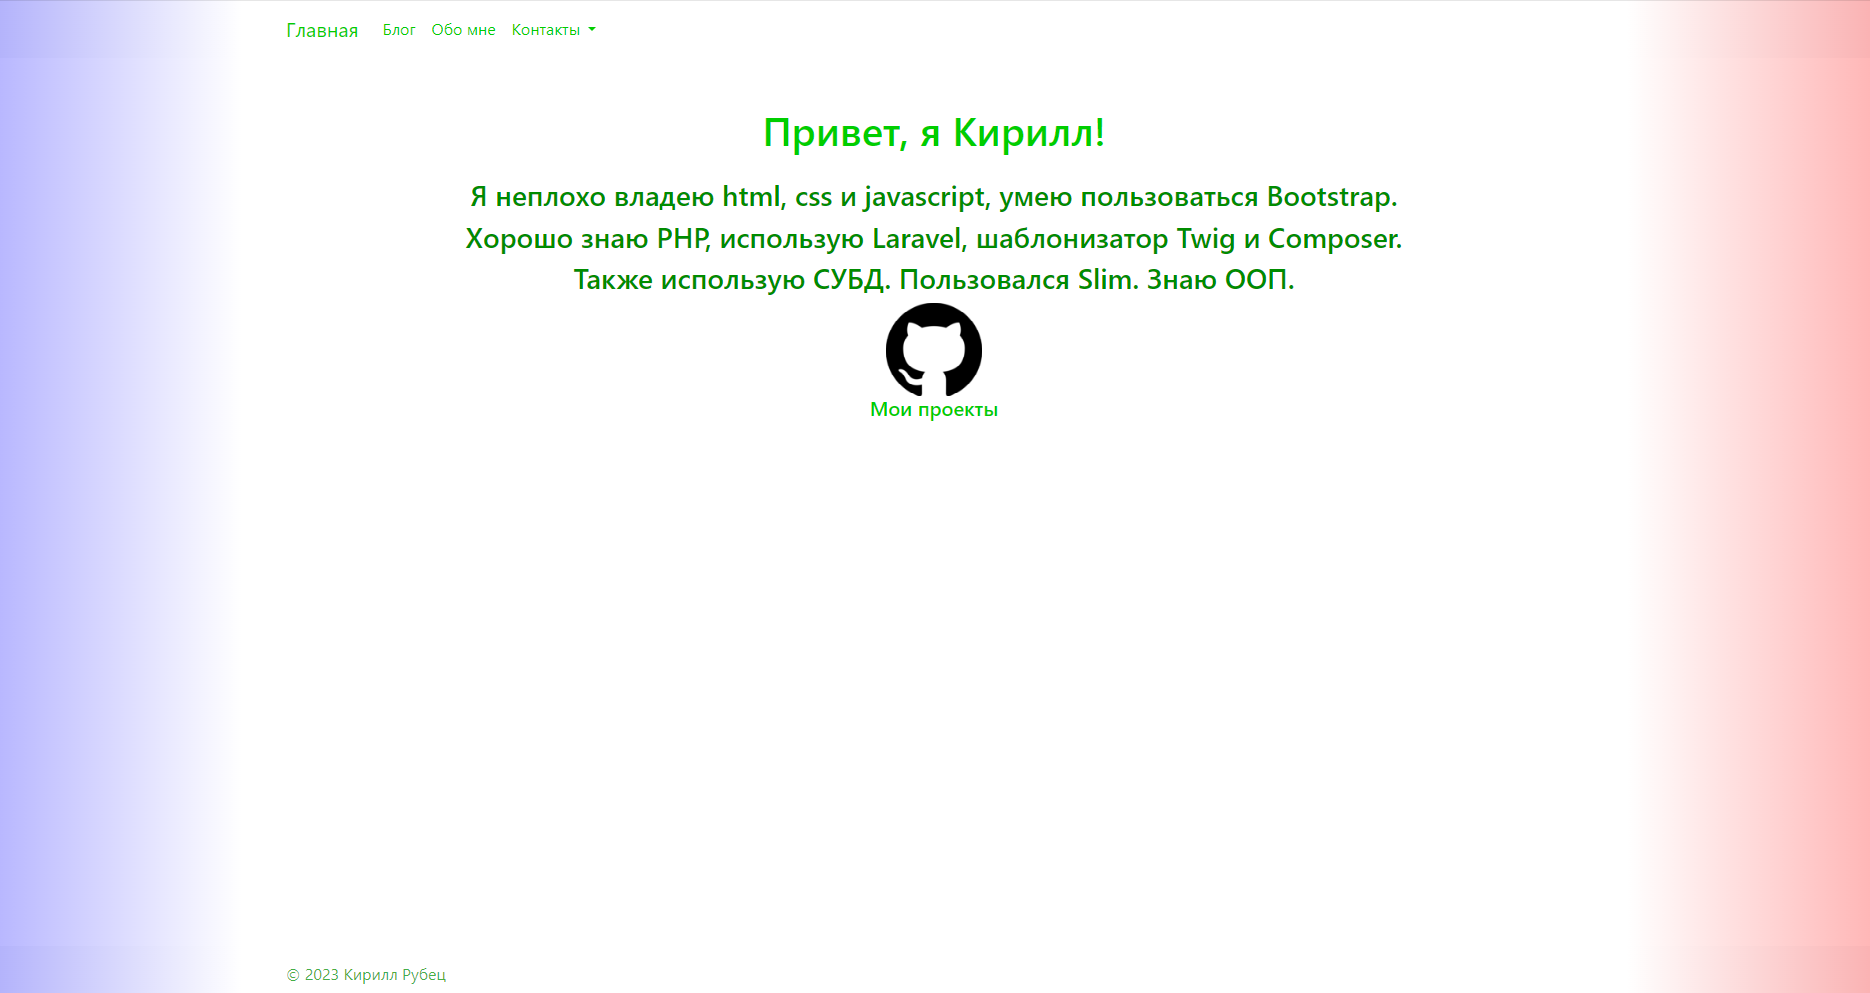
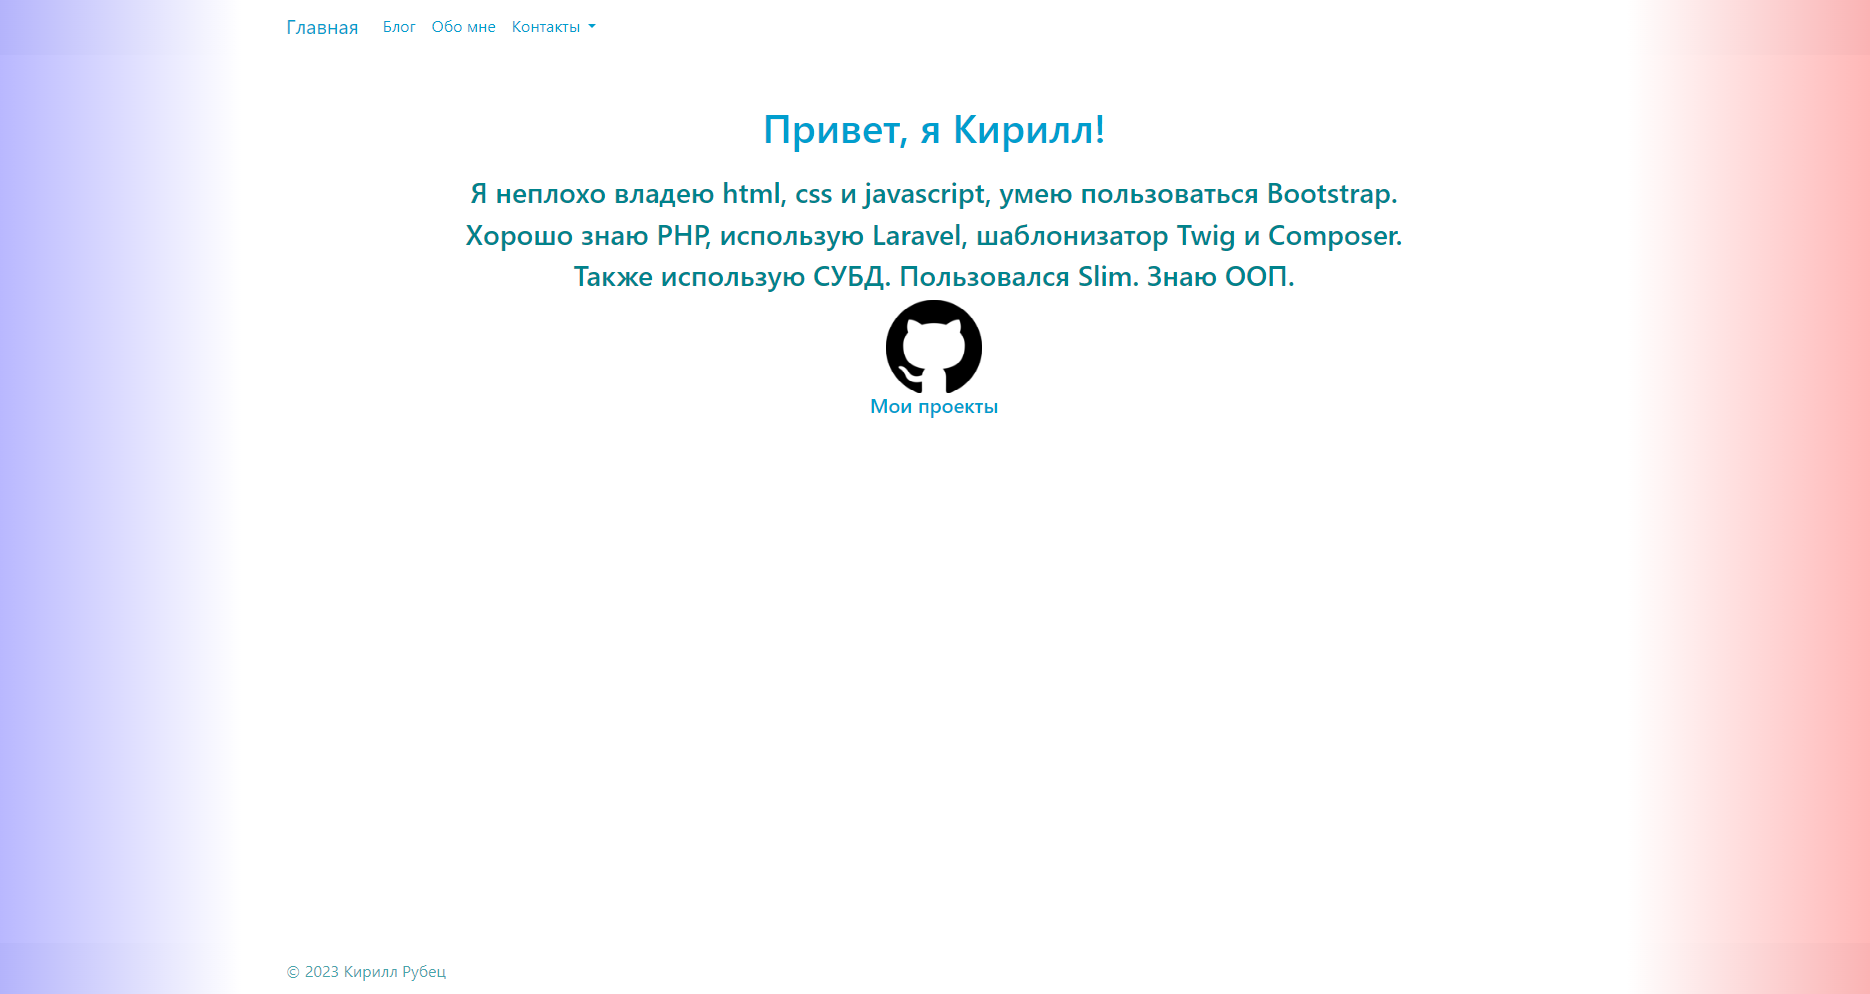
changed color scheme

diff --git a/public/styles/main.css b/public/styles/main.css
@@ -7,28 +7,28 @@ footer {
 .card,
 .pagination .page-item .page-link,
 .dropdown-menu {
-    border-color: rgba(0, 146, 0, 0.521);
+    border-color: rgba(0, 131, 140, 0.568);
 }
 
 .text {
-    color: rgb(0, 140, 0);
+    color: rgb(0, 131, 140);
 }
 
 footer span,
 .post-date {
-    color: rgba(0, 145, 0, 0.726);
+    color: rgba(0, 131, 140, 0.726);
 }
 
 .navbar a {
-    color: rgb(0, 206, 0);
+    color: rgb(0, 158, 206);
 }
 
 .navbar a:hover {
-    color: rgb(0, 255, 0);
+    color: rgb(0, 195, 255);
 }
 
 .dropdown-menu.show .dropdown-item {
-    color: rgb(0, 170, 0);
+    color: rgb(0, 158, 206);
 }
 
 .dropdown-menu.show .dropdown-item:active {
@@ -39,20 +39,20 @@ footer span,
 .post-title,
 .post-more,
 .my-projects-more {
-    color: rgb(0, 206, 0);
+    color: rgb(0, 158, 206);
 }
 
 .page-link {
-    color: rgb(0, 206, 0);
+    color: rgb(0, 158, 206);
 }
 
 .page-link:hover {
-    color: rgb(0, 255, 0);
+    color: rgb(0, 195, 255);
 }
 
 .pagination .page-item.active .page-link {
-    background-color: rgb(0, 206, 0);
-    border-color: rgb(0, 179, 0);
+    background-color: rgb(0, 195, 255);
+    border-color: rgb(0, 158, 206);
 }
 
 .my-github>img {
@@ -60,11 +60,11 @@ footer span,
 }
 
 .repo_url {
-    color: rgb(224, 16, 16);
+    color: rgba(163, 0, 0, 0.7);
 }
 
 .repo_url:hover {
-    color: rgb(189, 0, 0);
+    color: rgb(163, 0, 0);
 }
 
 @media (max-width: 755px) {
